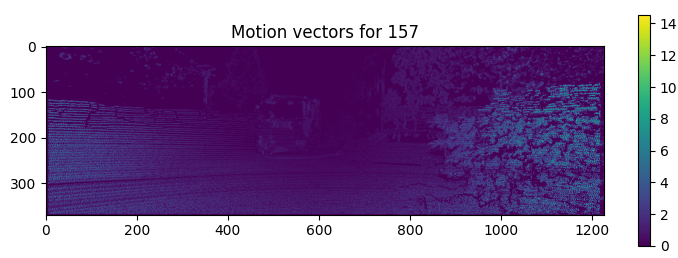
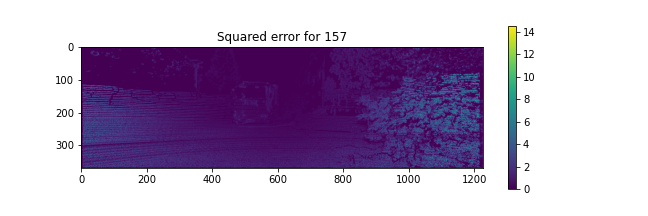
Histogram plot update

Changed region(s): [[0.0, 0.0833, 0.8951, 0.9167], [0.9259, 0.0556, 1.0, 0.9722], [0.1852, 0.6389, 0.216, 0.6667]]

diff --git a/Week1/task3.py b/Week1/task3.py
@@ -40,7 +40,7 @@ def plotError(img, outputFile):
     path = ".\\plots"
     
     plt.figure(figsize=(9, 3))
-    plt.title('Motion vectors for ' + outputFile)
+    plt.title('Squared error for ' + outputFile)
     plt.imshow(img)
     plt.colorbar()
     plt.savefig(path + '\\' + outputFile +'.png')
@@ -50,7 +50,7 @@ def plotValid(img, outputFile):
     path = ".\\plots"
     
     plt.figure(figsize=(12,9))
-    plt.title("Ground truth for " + outputFile)
+    plt.title("Valid pixels for " + outputFile)
     plt.imshow(img, cmap='gray')
     plt.savefig(path + '\\' + outputFile +'_valid_pixels_GT.png')
 
@@ -59,15 +59,16 @@ def plotErrorHistogram(img, outputFile):
     path = ".\\plots"
     print(img.shape)
     # create the histogram
-    histogram, bin_edges = np.histogram(img, bins=50, range=(0, 1), density=False)
-    
+    histogram, bin_edges = np.histogram(img, bins=50, density=True)
+    center = (bin_edges[:-1] + bin_edges[1:]) / 2
     plt.figure()
     plt.title("Image " + outputFile + " Error Grayscale Histogram")
-    plt.xlabel("grayscale value")
-    plt.ylabel("pixel count")
-    plt.xlim([0.0, 1.0])
+    plt.xlabel("Squared error")
+    plt.ylabel("Pixel percentage")
+    plt.xlim([0, 50])
 
-    plt.plot(bin_edges[0:-1], histogram) 
+    plt.bar(center, histogram)
+    #plt.plot(bin_edges[0:-1], histogram) 
     plt.savefig(path + '\\' + outputFile +'_error_histogram.png')
 
 path = ".\\results" # path for Windows
